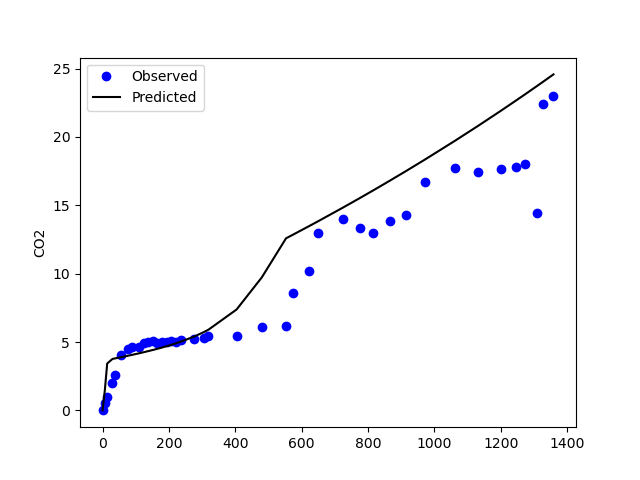
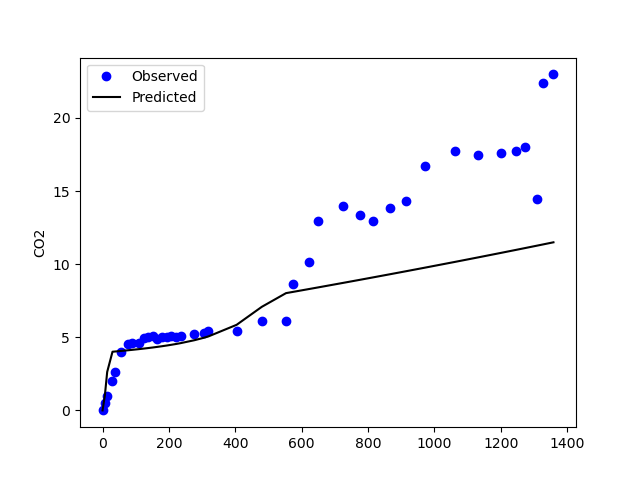
Biomasse immer dabei,
Biomasse ist jetzt immer dabei, egal ob mit oder ohne inverse MM kinetic. Ein zusätzlicher Plot zeigt, wie viel CO2 aus nicht Acetatquellen enststeht

diff --git a/multifit2.py b/multifit2.py
@@ -196,17 +196,17 @@ for m in Data1:#and2and3and4and5and6and7and8and9:
     #plt.plot( CCH4CO2opt[12], label=' AltE_init')
     #plt.title(' AltE_init')
     
-    plt.figure()
-    plt.plot( CCH4CO2opt[13], label='deltaH2_Hydro')
-    plt.title('deltaH2_Hydro')
-    plt.savefig('C:/Users/Lara/Desktop/simple model/Figs/deltaH2_Hydro.png')
-    plt.ylabel('μmol')        
+    # plt.figure()
+    # plt.plot( CCH4CO2opt[13], label='deltaH2_Hydro')
+    # plt.title('deltaH2_Hydro')
+    # plt.savefig('C:/Users/Lara/Desktop/simple model/Figs/deltaH2_Hydro.png')
+    # # plt.ylabel('μmol')        
     
-    plt.figure()
-    plt.plot( CCH4CO2opt[14], label='deltaH2_Homo')
-    plt.title('deltaH2_Homo')
-    plt.savefig('C:/Users/Lara/Desktop/simple model/Figs/deltaH2_Homo.png')
-    plt.ylabel('μmol')
+    # plt.figure()
+    # plt.plot( CCH4CO2opt[14], label='deltaH2_Homo')
+    # plt.title('deltaH2_Homo')
+    # plt.savefig('C:/Users/Lara/Desktop/simple model/Figs/deltaH2_Homo.png')
+    # plt.ylabel('μmol')
     
     plt.figure()
     plt.plot( CCH4CO2opt[15], label='CO2 aus Hydro')
@@ -225,12 +225,31 @@ for m in Data1:#and2and3and4and5and6and7and8and9:
     plt.title('H2 aus Ferm2')
     plt.savefig('C:/Users/Lara/Desktop/simple model/Figs/H2_aus_Ferm.png')  
     plt.ylabel('μmol')
+#%%
+    # Wie viel CO2 wird nicht aus Acetate produziert
+
+    difference = [a - b for a, b in zip(CCH4CO2opt[1], CCH4CO2opt[3])]
+    
+    # zip_object = zip(CCH4CO2opt[1], CCH4CO2opt[3])
+    # difference = []
+
+    # for CCH4CO2opt[1], CCH4CO2opt[3] in zip_object:
+
+    #     difference.append(CCH4CO2opt[1] - CCH4CO2opt[3])
 
 
+
+    plt.figure()
+    plt.plot(difference, label='CO2 ohne Aceto')
+    plt.title('CO2 ohne Aceto')
+    plt.savefig('C:/Users/Lara/Desktop/simple model/Figs/CO2ohneAceto.png')  
+    plt.ylabel('μmol')
+
+    #CH4, CO2, AltEpool, AceCO2, Acetate, Cpool, M_A_CH4, M_Ferm, M_AltE, H2, M_H_CH4, M_Homo, AltE_init, deltaH2_Hydro,[0 for _ in range(len(CO2))], CO2_Hydro, CH4_Hydro,H2_Ferm2
     
     # Goodness of fit with R^2 automatic
         
-
+#%%
 ################ ab hier ist es uninteressant #################################   
 #    #--calculating R^2 by hand-----------------------------------------------------
 #    # Aufteilen von CCH4CO2opt in die jeweiligen pools und Berechnung des mean

diff --git a/Microbe.py b/Microbe.py
@@ -26,13 +26,13 @@ def HeteroMicrobe(Biomass, Sub1, Sub2, w, Km1, Vmax, Sensenmann, Kmb, Kmh):  #AT
     MM2 = Sub2 / (Kmh + Sub2) if Sub2 > 0 else 0 # die 10 ist ausgedacht
     MMB = Biomass / (Kmb + Biomass) if Biomass >0 else 0 
 
-    deltaSub1Resp =  MM1 * Vmax * MMB
+    deltaSub1Resp =  MM1 * Vmax * Biomass * MMB
     deltaSub1Grow = deltaSub1Resp * w/m_C 
     deltaSub1 = deltaSub1Resp + deltaSub1Grow
 
  
     ToteMicroben = Biomass * Sensenmann
-    deltaBiomass = deltaSub1Grow * m_C * (1-MM2) - ToteMicroben
+    deltaBiomass = deltaSub1Grow * m_C * (1-MM2)  - ToteMicroben #
     # schink1997energetics, Acetate hemmt ab 10 mikromol (für ein bestimmtes Bakterium)
     deltaSub2 = 0
  
